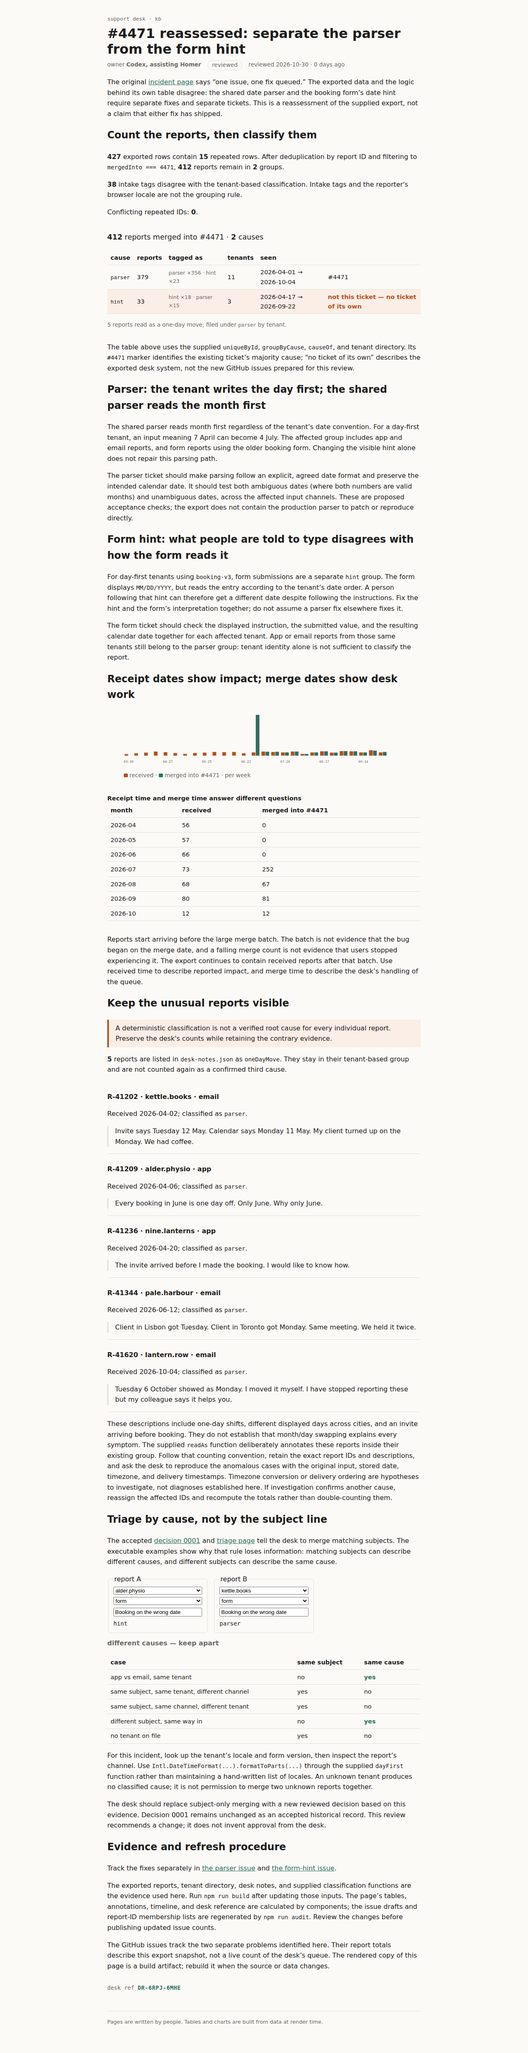
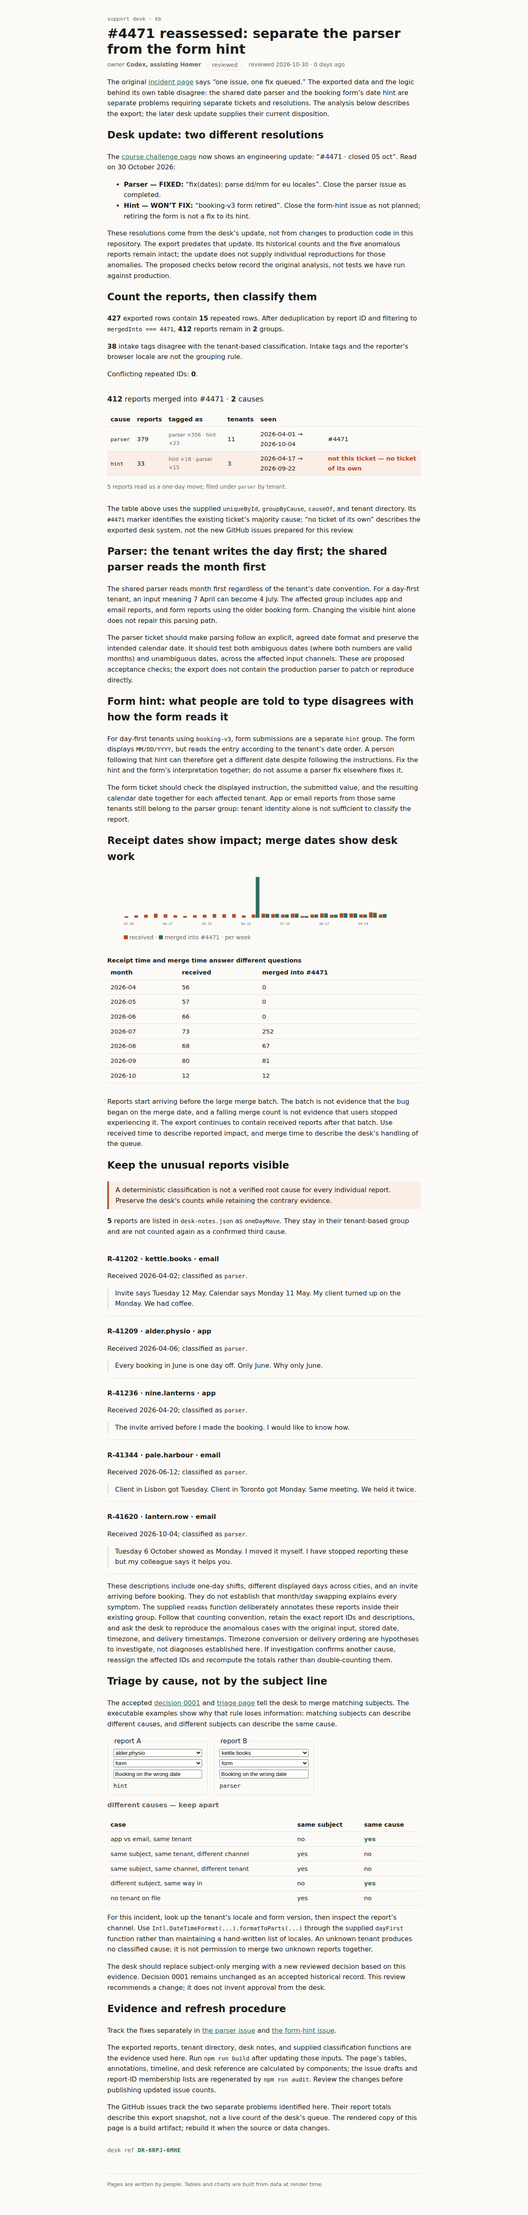
Apply desk update: parser fixed, booking-v3 hint retired

Changed region(s): [[0.1875, 0.0, 0.7812, 0.9978]]

diff --git a/rendered/_app/immutable/chunks/BATBMqL0.js b/rendered/_app/immutable/chunks/BATBMqL0.js
@@ -3,8 +3,12 @@ import{t as e}from"./DK3Fl9T5.js";import{E as t,G as n,I as r,J as i,L as a,O as
     Intake tags and the reporter's browser locale are not the grouping rule.</p> <p>Conflicting repeated IDs: <strong> </strong>.</p>`,1),V=t(`<tr><td> </td><td> </td><td> </td></tr>`),H=t(`<table><caption class="svelte-d54a26">Receipt time and merge time answer different questions</caption><thead><tr><th>month</th><th>received</th><th>merged into #4471</th></tr></thead><tbody></tbody></table>`),U=t(`<article class="svelte-d54a26"><h3 class="svelte-d54a26"> </h3> <p> <code> </code>.</p> <blockquote class="svelte-d54a26"> </blockquote></article>`),W=t(`<p><strong> </strong> reports are listed in <code>desk-notes.json</code> as <code>oneDayMove</code>.
     They stay in their tenant-based group and are not counted again as a confirmed third cause.</p> <!>`,1);function G(e,t){n(t,!0);let o=Object.values([j,N,te,ee,L,A,O,F,M,E,k]),d=z(S,o,w.oneDayMove);var _=u(),v=a(_),x=e=>{var t=B(),n=a(t),o=r(n),u=c(o,!0),f=b(o,2),p=c(f,!0),m=b(f,4),h=c(m,!0),_=b(m,2),v=c(_,!0);g(),i(n);var x=b(n,2),S=r(x),C=c(S,!0);g(),i(x);var w=b(x,2),T=b(r(w)),E=c(T,!0);g(),i(w),s(()=>{l(u,d.rawRows),l(p,d.duplicateRows),l(h,d.reports.length),l(v,d.groups.length),l(C,d.intakeDisagreements),l(E,d.conflictingDuplicateIds.length)}),y(e,t)},C=e=>{var t=H(),n=b(r(t),2);m(n,21,()=>d.months,e=>e.month,(e,t)=>{var n=V(),a=r(n),o=c(a,!0),u=b(a),d=c(u,!0),f=b(u),p=c(f,!0);i(n),s(()=>{l(o,h(t).month),l(d,h(t).received),l(p,h(t).merged)}),y(e,n)}),i(n),i(t),y(e,t)},T=e=>{var t=W(),n=a(t),o=r(n),u=c(o,!0);g(5),i(n);var f=b(n,2);m(f,17,()=>d.annotated,e=>e.id,(e,t)=>{var n=U(),a=r(n),o=c(a),u=b(a,2),d=r(u),f=b(d),p=c(f,!0);g(),i(u);var m=b(u,2),_=c(m,!0);i(n),s((e,n)=>{l(o,`${h(t).id??``} · ${h(t).tenant??``} · ${h(t).channel??``}`),l(d,`Received ${e??``}; classified as `),l(p,n),l(_,h(t).body)},[()=>h(t).receivedAt.slice(0,10),()=>re(h(t),P(h(t)))]),y(e,n)}),s(()=>l(u,d.annotated.length)),y(e,t)};p(v,e=>{t.section===`counts`?e(x):t.section===`timeline`?e(C,1):e(T,-1)}),y(e,_),f()}var K=`0123456789ABCDEFGHJKMNPQRSTVWXYZ`;function q(e,t){let n=t>>>0;for(let t=0;t<e.length;t++)n^=e.charCodeAt(t),n=Math.imul(n,16777619)>>>0;return n}function J(e){let t=e.trim(),n=q(t,2166136261),r=q(t,2654435769),i=BigInt(n)<<8n|BigInt(r&255),a=``;for(let e=0;e<8;e++)a=K[Number(i&31n)]+a,i>>=5n;return`DR-${a.slice(0,4)}-${a.slice(4)}`}var Y=t(`<p class="stamp svelte-1280m42">desk ref <b class="svelte-1280m42"> </b></p>`),X=t(`<p class="stamp missing svelte-1280m42">no desk ref: this page isn't signed (no <code>signature</code> in its frontmatter)</p>`);function ie(e,t){n(t,!0);let o=d(()=>t.signature?J(t.signature):null);var m=u(),g=a(m),_=e=>{var t=Y(),n=b(r(t)),a=c(n,!0);i(t),s(()=>l(a,h(o))),y(e,t)},v=e=>{var t=X();y(e,t)};p(g,e=>{h(o)?e(_):e(v,-1)}),y(e,m),f()}var Z=e({default:()=>$,metadata:()=>Q}),Q={layout:`runbook`,title:`#4471 reassessed: separate the parser from the form hint`,owner:`Codex, assisting Homer`,status:`reviewed`,reviewed:`2026-10-30`,signature:`Codex for Homer (1760272981), S01E03, 2026-10-30`},{layout:ae,title:oe,owner:se,status:ce,reviewed:le,signature:ue}=Q,de=t(`<p>The original <a href="/kb/incidents/4471/">incident page</a> says “one issue, one fix queued.”
 The exported data and the logic behind its own table disagree: the shared date parser and
-the booking form’s date hint require separate fixes and separate tickets.
-This is a reassessment of the supplied export, not a claim that either fix has shipped.</p> <h2>Count the reports, then classify them</h2> <!> <div class="table-scroll svelte-w4rwz6"><!></div> <p>The table above uses the supplied <code>uniqueById</code>, <code>groupByCause</code>, <code>causeOf</code>, and tenant directory.
+the booking form’s date hint are separate problems requiring separate tickets and resolutions.
+The analysis below describes the export; the later desk update supplies their current disposition.</p> <h2>Desk update: two different resolutions</h2> <p>The <a href="https://hq.mega.dev/challenges/what-it-shows#engineering-update" rel="nofollow">course challenge page</a> now shows an engineering update: “#4471 · closed 05 oct”. Read on 30 October 2026:</p> <ul><li><strong>Parser — FIXED:</strong> “fix(dates): parse dd/mm for eu locales”. Close the parser issue as completed.</li> <li><strong>Hint — WON’T FIX:</strong> “booking-v3 form retired”. Close the form-hint issue as not planned;
+retiring the form is not a fix to its hint.</li></ul> <p>These resolutions come from the desk’s update, not from changes to production code in this repository.
+The export predates that update. Its historical counts and the five anomalous reports remain intact;
+the update does not supply individual reproductions for those anomalies. The proposed checks below
+record the original analysis, not tests we have run against production.</p> <h2>Count the reports, then classify them</h2> <!> <div class="table-scroll svelte-w4rwz6"><!></div> <p>The table above uses the supplied <code>uniqueById</code>, <code>groupByCause</code>, <code>causeOf</code>, and tenant directory.
 Its <code>#4471</code> marker identifies the existing ticket’s majority cause; “no ticket of its own”
 describes the exported desk system, not the new GitHub issues prepared for this review.</p> <h2>Parser: the tenant writes the day first; the shared parser reads the month first</h2> <p>The shared parser reads month first regardless of the tenant’s date convention.
 For a day-first tenant, an input meaning 7 April can become 4 July.
@@ -39,5 +43,5 @@ evidence used here. Run <code>npm run build</code> after updating those inputs. 
 timeline, and desk reference are calculated by components; the issue drafts and report-ID membership
 lists are regenerated by <code>npm run audit</code>. Review the changes before publishing updated issue counts.</p> <p>The GitHub issues track the two separate problems identified here. Their report totals describe this
 export snapshot, not a live count of the desk’s queue. The rendered copy of this page is a build artifact;
-rebuild it when the source or data changes.</p> <!>`,1);function $(e,t){let n=v(t,[`children`,`$$slots`,`$$events`,`$$legacy`]);x(e,_(()=>n,()=>Q,{children:(e,t)=>{var n=de(),s=b(a(n),4);G(s,{section:`counts`});var c=b(s,2),l=r(c);C(l,{ticket:4471}),i(c);var u=b(c,18);T(u,{ticket:4471});var d=b(u,2);G(r(d),{section:`timeline`}),i(d);var f=b(d,6);I(f,{kind:`warn`,children:(e,t)=>{g();var n=o(`A deterministic classification is not a verified root cause for every individual report.
+rebuild it when the source or data changes.</p> <!>`,1);function $(e,t){let n=v(t,[`children`,`$$slots`,`$$events`,`$$legacy`]);x(e,_(()=>n,()=>Q,{children:(e,t)=>{var n=de(),s=b(a(n),12);G(s,{section:`counts`});var c=b(s,2),l=r(c);C(l,{ticket:4471}),i(c);var u=b(c,18);T(u,{ticket:4471});var d=b(u,2);G(r(d),{section:`timeline`}),i(d);var f=b(d,6);I(f,{kind:`warn`,children:(e,t)=>{g();var n=o(`A deterministic classification is not a verified root cause for every individual report.
   Preserve the desk's counts while retaining the contrary evidence.`);y(e,n)},$$slots:{default:!0}});var p=b(f,2);G(p,{section:`exceptions`});var m=b(p,8);R(m,{}),ie(b(m,14),{get signature(){return ue}}),y(e,n)},$$slots:{default:!0}}))}export{$ as n,Z as t};

diff --git a/rendered/kb/incidents/4471-review/index.html b/rendered/kb/incidents/4471-review/index.html
@@ -9,11 +9,11 @@
 		<link href="../../../_app/immutable/chunks/Cq01Gh6Q.js" rel="modulepreload">
 		<link href="../../../_app/immutable/chunks/2D1cxmbv.js" rel="modulepreload">
 		<link href="../../../_app/immutable/chunks/CQJJEalF.js" rel="modulepreload">
-		<link href="../../../_app/immutable/entry/app.DoGClsZR.js" rel="modulepreload">
+		<link href="../../../_app/immutable/entry/app.BzIb4Rom.js" rel="modulepreload">
 		<link href="../../../_app/immutable/nodes/0.Bxxzqp7H.js" rel="modulepreload">
 		<link href="../../../_app/immutable/chunks/DK3Fl9T5.js" rel="modulepreload">
-		<link href="../../../_app/immutable/nodes/6.M_Tiq3f0.js" rel="modulepreload">
-		<link href="../../../_app/immutable/chunks/BtgBJb5W.js" rel="modulepreload">
+		<link href="../../../_app/immutable/nodes/6.CsdWFHEe.js" rel="modulepreload">
+		<link href="../../../_app/immutable/chunks/BATBMqL0.js" rel="modulepreload">
 		<link href="../../../_app/immutable/chunks/CnzFfRdU.js" rel="modulepreload">
 		<link href="../../../_app/immutable/chunks/Dh63krjs.js" rel="modulepreload">
 		<link href="../../../_app/immutable/chunks/DrPThg5V.js" rel="modulepreload">
@@ -28,8 +28,12 @@
   </head>
   <body data-sveltekit-preload-data="hover"><div style="display: contents"><!--[--><!--[--><!--[0--><!--[--><!--[--><!--[-1--><!--[--><div class="kb svelte-e2jw2j"><header><a class="crumb svelte-e2jw2j" href="/kb">support desk · kb</a> <h1 class="svelte-e2jw2j">#4471 reassessed: separate the parser from the form hint</h1> <p class="meta svelte-e2jw2j"><span>owner <b>Codex, assisting Homer</b></span> <span class="status reviewed svelte-e2jw2j">reviewed</span> <span class="svelte-e2jw2j">reviewed 2026-10-30 · 0 days ago</span></p></header> <!--[-1--><!--]--> <main><p>The original <a href="/kb/incidents/4471/">incident page</a> says “one issue, one fix queued.”
 The exported data and the logic behind its own table disagree: the shared date parser and
-the booking form’s date hint require separate fixes and separate tickets.
-This is a reassessment of the supplied export, not a claim that either fix has shipped.</p> <h2>Count the reports, then classify them</h2> <!--[0--><p><strong>427</strong> exported rows contain <strong>15</strong> repeated rows.
+the booking form’s date hint are separate problems requiring separate tickets and resolutions.
+The analysis below describes the export; the later desk update supplies their current disposition.</p> <h2>Desk update: two different resolutions</h2> <p>The <a href="https://hq.mega.dev/challenges/what-it-shows#engineering-update" rel="nofollow">course challenge page</a> now shows an engineering update: “#4471 · closed 05 oct”. Read on 30 October 2026:</p> <ul><li><strong>Parser — FIXED:</strong> “fix(dates): parse dd/mm for eu locales”. Close the parser issue as completed.</li> <li><strong>Hint — WON’T FIX:</strong> “booking-v3 form retired”. Close the form-hint issue as not planned;
+retiring the form is not a fix to its hint.</li></ul> <p>These resolutions come from the desk’s update, not from changes to production code in this repository.
+The export predates that update. Its historical counts and the five anomalous reports remain intact;
+the update does not supply individual reproductions for those anomalies. The proposed checks below
+record the original analysis, not tests we have run against production.</p> <h2>Count the reports, then classify them</h2> <!--[0--><p><strong>427</strong> exported rows contain <strong>15</strong> repeated rows.
     After deduplication by report ID and filtering to <code>mergedInto === 4471</code>, <strong>412</strong> reports remain in <strong>2</strong> groups.</p> <p><strong>38</strong> intake tags disagree with the tenant-based classification.
     Intake tags and the reporter's browser locale are not the grouping rule.</p> <p>Conflicting repeated IDs: <strong>0</strong>.</p><!--]--><!----> <div class="table-scroll svelte-w4rwz6"><p class="sum svelte-12oyimm"><strong>412</strong> reports merged into #4471 · <strong>2</strong> causes</p> <table><thead><tr><th>cause</th><th>reports</th><th>tagged as</th><th>tenants</th><th>seen</th><th></th></tr></thead><tbody><!--[--><tr class="svelte-12oyimm"><td class="svelte-12oyimm"><code>parser</code></td><td class="svelte-12oyimm">379</td><td class="tags svelte-12oyimm">parser ×356 · hint ×23</td><td class="svelte-12oyimm">11</td><td class="svelte-12oyimm">2026-04-01 → 2026-10-04</td><td class="svelte-12oyimm">#4471</td></tr><tr class="svelte-12oyimm wrong"><td class="svelte-12oyimm"><code>hint</code></td><td class="svelte-12oyimm">33</td><td class="tags svelte-12oyimm">hint ×18 · parser ×15</td><td class="svelte-12oyimm">3</td><td class="svelte-12oyimm">2026-04-17 → 2026-09-22</td><td class="svelte-12oyimm">not this ticket — no ticket of its own</td></tr><!--]--></tbody></table> <!--[--><!--[0--><p class="note svelte-12oyimm">5 reports read as a one-day move; filed under <code>parser</code> by tenant.</p><!--]--><!--[-1--><!--]--><!--]--><!----></div> <p>The table above uses the supplied <code>uniqueById</code>, <code>groupByCause</code>, <code>causeOf</code>, and tenant directory.
 Its <code>#4471</code> marker identifies the existing ticket’s majority cause; “no ticket of its own”
@@ -72,16 +76,16 @@ rebuild it when the source or data changes.</p> <!--[0--><p class="stamp svelte-
 			
 			<script>
 				{
-					__sveltekit_rd9f4u = {
+					__sveltekit_uleuag = {
 						base: new URL("../../..", location).pathname.slice(0, -1),
-						version: "1793364668781"
+						version: "1793367202461"
 					};
 
 					const element = document.currentScript.parentElement;
 
 					import("../../../_app/immutable/entry/start.DUYmlmhK.js").then(async (kit) => {
-						kit.init(__sveltekit_rd9f4u);
-						const app = await import("../../../_app/immutable/entry/app.DoGClsZR.js");
+						kit.init(__sveltekit_uleuag);
+						const app = await import("../../../_app/immutable/entry/app.BzIb4Rom.js");
 						kit.start(app, element, {
 							node_ids: [0, 6],
 							data: [null,null],

diff --git a/rendered/_app/immutable/entry/app.BzIb4Rom.js b/rendered/_app/immutable/entry/app.BzIb4Rom.js
@@ -1,0 +1,2 @@
+const __vite__mapDeps=(i,m=__vite__mapDeps,d=(m.f||(m.f=["../nodes/0.Bxxzqp7H.js","../chunks/DK3Fl9T5.js","../chunks/2D1cxmbv.js","../nodes/1.C3VbMopq.js","../chunks/CQJJEalF.js","./payload.DSmR2FwN.js","../nodes/2.BHHbg1nX.js","../chunks/CnzFfRdU.js","../nodes/3.DRbAsFVg.js","../chunks/Dh63krjs.js","../assets/runbook.COyw0cbZ.css","../chunks/CwpsZ9va.js","../chunks/I6jV0-eq.js","../chunks/DrPThg5V.js","../chunks/Bd3kRNKH.js","../assets/Callout.AbLv9dM_.css","../assets/QueueTimeline.D56XP2ro.css","../chunks/BATBMqL0.js","../chunks/Cvxc71Pu.js","../assets/DedupeExplorer.DO6Yid7X.css","../assets/_page.C5JhMVEf.css","../chunks/BlJGLigd.js","../assets/3.Bt0MwIZg.css","../nodes/4.BxLB6XrB.js","../nodes/5.pVXjYX-T.js","../nodes/6.CsdWFHEe.js","../nodes/7.D9pEYvxg.js"])))=>i.map(i=>d[i]);
+import{t as e}from"../chunks/CRzLMJPS.js";var t={},n=[()=>e(()=>import(`../nodes/0.Bxxzqp7H.js`),__vite__mapDeps([0,1,2]),import.meta.url),()=>e(()=>import(`../nodes/1.C3VbMopq.js`),__vite__mapDeps([3,2,4,5]),import.meta.url),()=>e(()=>import(`../nodes/2.BHHbg1nX.js`),__vite__mapDeps([6,2,7]),import.meta.url),()=>e(()=>import(`../nodes/3.DRbAsFVg.js`),__vite__mapDeps([8,2,7,9,10,11,1,12,13,14,15,16,17,18,19,20,21,22]),import.meta.url),()=>e(()=>import(`../nodes/4.BxLB6XrB.js`),__vite__mapDeps([23,11,1,2,7,9,10]),import.meta.url),()=>e(()=>import(`../nodes/5.pVXjYX-T.js`),__vite__mapDeps([24,12,1,2,7,9,10,13,14,15,16]),import.meta.url),()=>e(()=>import(`../nodes/6.CsdWFHEe.js`),__vite__mapDeps([25,17,1,2,7,9,10,13,14,15,16,18,19,20]),import.meta.url),()=>e(()=>import(`../nodes/7.D9pEYvxg.js`),__vite__mapDeps([26,21,1,2,7,9,10,18,14,15,19]),import.meta.url)],r=[],i={"/":[2],"/kb":[3],"/kb/decisions/0001-dedupe-by-subject":[4],"/kb/incidents/4471-review":[6],"/kb/incidents/4471":[5],"/kb/triage/dedupe":[7]},a={handleError:(({kind:e,error:t})=>{e===`unknown`&&console.error(t)}),reroute:(()=>{}),transport:{}},o=Object.fromEntries(Object.entries(a.transport).map(([e,t])=>[e,t.decode])),s=Object.fromEntries(Object.entries(a.transport).map(([e,t])=>[e,t.encode])),c=!1,l=(e,t)=>o[e](t),u=()=>e(()=>import(`../chunks/Bjy-W4x2.js`).then(e=>e.default),[],import.meta.url);export{l as decode,o as decoders,i as dictionary,s as encoders,u as get_error_template,c as hash,a as hooks,t as matchers,n as nodes,r as server_loads};

diff --git a/rendered/_app/immutable/nodes/3.DRbAsFVg.js b/rendered/_app/immutable/nodes/3.DRbAsFVg.js
@@ -1,0 +1,2 @@
+import{E as e,G as t,I as n,J as r,L as i,P as a,R as o,S as s,W as c,c as l,d as u,h as d,i as f,k as p,q as m,r as h,t as g,w as _,z as v}from"../chunks/2D1cxmbv.js";import"../chunks/CnzFfRdU.js";import{n as y,r as b,t as x}from"../chunks/Dh63krjs.js";import{t as S}from"../chunks/CwpsZ9va.js";import{t as C}from"../chunks/I6jV0-eq.js";import{t as w}from"../chunks/BATBMqL0.js";import{t as T}from"../chunks/BlJGLigd.js";var E=e(`<tr><td><a> </a></td><td> </td><td> </td><td> </td></tr>`),D=e(`<table><thead><tr><th>page</th><th>owner</th><th>status</th><th>reviewed</th></tr></thead><tbody></tbody></table>`);function O(e,i){t(i,!1);let m=Object.entries(Object.assign({"/src/routes/kb/decisions/0001-dedupe-by-subject/+page.svx":S,"/src/routes/kb/incidents/4471/+page.svx":C,"/src/routes/kb/incidents/4471-review/+page.svx":w,"/src/routes/kb/triage/dedupe/+page.svx":T})).map(([e,t])=>({href:e.replace(`/src/routes`,``).replace(`/+page.svx`,``),...t.metadata})).sort((e,t)=>e.href.localeCompare(t.href));f();var h=D(),g=v(n(h));d(g,5,()=>m,e=>e.href,(e,t)=>{var i=E(),c=n(i),d=n(c),f=o(d,!0);r(c);var m=v(c),h=o(m,!0),g=v(m),x=o(g,!0),S=v(g);let C;var w=o(S,!0);r(i),a((e,n)=>{l(d,`href`,p(t).href),s(f,p(t).title),s(h,p(t).owner),s(x,p(t).status),C=u(S,1,`svelte-tbc1ha`,null,C,{stale:e}),s(w,n)},[()=>y(p(t).reviewed)>180,()=>b(p(t).reviewed)]),_(e,i)}),r(g),r(h),_(e,h),c()}var k={layout:`runbook`,title:`Support knowledge base`,owner:`support desk`,status:`living`,reviewed:`2026-09-28T00:00:00.000Z`},{layout:A,title:j,owner:M,status:N,reviewed:P}=k,F=e(`<p>What the support desk knows, kept next to the code that knows it. One desk, every product: <code>sched-prod</code> (calendar invites for about 300k people) and the rest. When something breaks, the reports land here first.</p> <p>Start with <a href="/kb/triage/dedupe">triage</a> if you are new on the desk.</p> <h2>Pages</h2> <!> <h2>Writing a page</h2> <p>Keep the words here and the logic in <code>src/lib</code>. A number that can be computed should be
+computed by a component, not typed into a paragraph.</p>`,1);function I(e,t){let n=g(t,[`children`,`$$slots`,`$$events`,`$$legacy`]);x(e,h(()=>n,()=>k,{children:(e,t)=>{var n=F();O(v(i(n),6),{}),m(4),_(e,n)},$$slots:{default:!0}}))}export{I as component};

diff --git a/rendered/kb/index.html b/rendered/kb/index.html
@@ -9,17 +9,17 @@
 		<link href="../_app/immutable/chunks/Cq01Gh6Q.js" rel="modulepreload">
 		<link href="../_app/immutable/chunks/2D1cxmbv.js" rel="modulepreload">
 		<link href="../_app/immutable/chunks/CQJJEalF.js" rel="modulepreload">
-		<link href="../_app/immutable/entry/app.DoGClsZR.js" rel="modulepreload">
+		<link href="../_app/immutable/entry/app.BzIb4Rom.js" rel="modulepreload">
 		<link href="../_app/immutable/nodes/0.Bxxzqp7H.js" rel="modulepreload">
 		<link href="../_app/immutable/chunks/DK3Fl9T5.js" rel="modulepreload">
-		<link href="../_app/immutable/nodes/3.BJFyYP9g.js" rel="modulepreload">
+		<link href="../_app/immutable/nodes/3.DRbAsFVg.js" rel="modulepreload">
 		<link href="../_app/immutable/chunks/CnzFfRdU.js" rel="modulepreload">
 		<link href="../_app/immutable/chunks/Dh63krjs.js" rel="modulepreload">
 		<link href="../_app/immutable/chunks/CwpsZ9va.js" rel="modulepreload">
 		<link href="../_app/immutable/chunks/I6jV0-eq.js" rel="modulepreload">
 		<link href="../_app/immutable/chunks/DrPThg5V.js" rel="modulepreload">
 		<link href="../_app/immutable/chunks/Bd3kRNKH.js" rel="modulepreload">
-		<link href="../_app/immutable/chunks/BtgBJb5W.js" rel="modulepreload">
+		<link href="../_app/immutable/chunks/BATBMqL0.js" rel="modulepreload">
 		<link href="../_app/immutable/chunks/Cvxc71Pu.js" rel="modulepreload">
 		<link href="../_app/immutable/chunks/BlJGLigd.js" rel="modulepreload">
 		<!--e2jw2j--><!----><title>Support knowledge base · support kb</title>
@@ -35,16 +35,16 @@ computed by a component, not typed into a paragraph.</p><!----></main> <footer c
 			
 			<script>
 				{
-					__sveltekit_rd9f4u = {
+					__sveltekit_uleuag = {
 						base: new URL("..", location).pathname.slice(0, -1),
-						version: "1793364668781"
+						version: "1793367202461"
 					};
 
 					const element = document.currentScript.parentElement;
 
 					import("../_app/immutable/entry/start.DUYmlmhK.js").then(async (kit) => {
-						kit.init(__sveltekit_rd9f4u);
-						const app = await import("../_app/immutable/entry/app.DoGClsZR.js");
+						kit.init(__sveltekit_uleuag);
+						const app = await import("../_app/immutable/entry/app.BzIb4Rom.js");
 						kit.start(app, element, {
 							node_ids: [0, 3],
 							data: [null,null],

diff --git a/rendered/kb/decisions/0001-dedupe-by-subject/index.html b/rendered/kb/decisions/0001-dedupe-by-subject/index.html
@@ -9,7 +9,7 @@
 		<link href="../../../_app/immutable/chunks/Cq01Gh6Q.js" rel="modulepreload">
 		<link href="../../../_app/immutable/chunks/2D1cxmbv.js" rel="modulepreload">
 		<link href="../../../_app/immutable/chunks/CQJJEalF.js" rel="modulepreload">
-		<link href="../../../_app/immutable/entry/app.DoGClsZR.js" rel="modulepreload">
+		<link href="../../../_app/immutable/entry/app.BzIb4Rom.js" rel="modulepreload">
 		<link href="../../../_app/immutable/nodes/0.Bxxzqp7H.js" rel="modulepreload">
 		<link href="../../../_app/immutable/chunks/DK3Fl9T5.js" rel="modulepreload">
 		<link href="../../../_app/immutable/nodes/4.BxLB6XrB.js" rel="modulepreload">
@@ -26,16 +26,16 @@ engineering merges them later.</li></ul><!----></main> <footer class="svelte-e2j
 			
 			<script>
 				{
-					__sveltekit_rd9f4u = {
+					__sveltekit_uleuag = {
 						base: new URL("../../..", location).pathname.slice(0, -1),
-						version: "1793364668781"
+						version: "1793367202461"
 					};
 
 					const element = document.currentScript.parentElement;
 
 					import("../../../_app/immutable/entry/start.DUYmlmhK.js").then(async (kit) => {
-						kit.init(__sveltekit_rd9f4u);
-						const app = await import("../../../_app/immutable/entry/app.DoGClsZR.js");
+						kit.init(__sveltekit_uleuag);
+						const app = await import("../../../_app/immutable/entry/app.BzIb4Rom.js");
 						kit.start(app, element, {
 							node_ids: [0, 4],
 							data: [null,null],

diff --git a/rendered/kb/incidents/4471/index.html b/rendered/kb/incidents/4471/index.html
@@ -9,7 +9,7 @@
 		<link href="../../../_app/immutable/chunks/Cq01Gh6Q.js" rel="modulepreload">
 		<link href="../../../_app/immutable/chunks/2D1cxmbv.js" rel="modulepreload">
 		<link href="../../../_app/immutable/chunks/CQJJEalF.js" rel="modulepreload">
-		<link href="../../../_app/immutable/entry/app.DoGClsZR.js" rel="modulepreload">
+		<link href="../../../_app/immutable/entry/app.BzIb4Rom.js" rel="modulepreload">
 		<link href="../../../_app/immutable/nodes/0.Bxxzqp7H.js" rel="modulepreload">
 		<link href="../../../_app/immutable/chunks/DK3Fl9T5.js" rel="modulepreload">
 		<link href="../../../_app/immutable/nodes/5.pVXjYX-T.js" rel="modulepreload">
@@ -29,16 +29,16 @@ first. The fix is queued.</p> <aside class="note svelte-17bri61"><!---->Known. O
 			
 			<script>
 				{
-					__sveltekit_rd9f4u = {
+					__sveltekit_uleuag = {
 						base: new URL("../../..", location).pathname.slice(0, -1),
-						version: "1793364668781"
+						version: "1793367202461"
 					};
 
 					const element = document.currentScript.parentElement;
 
 					import("../../../_app/immutable/entry/start.DUYmlmhK.js").then(async (kit) => {
-						kit.init(__sveltekit_rd9f4u);
-						const app = await import("../../../_app/immutable/entry/app.DoGClsZR.js");
+						kit.init(__sveltekit_uleuag);
+						const app = await import("../../../_app/immutable/entry/app.BzIb4Rom.js");
 						kit.start(app, element, {
 							node_ids: [0, 5],
 							data: [null,null],

diff --git a/rendered/kb/triage/dedupe/index.html b/rendered/kb/triage/dedupe/index.html
@@ -9,7 +9,7 @@
 		<link href="../../../_app/immutable/chunks/Cq01Gh6Q.js" rel="modulepreload">
 		<link href="../../../_app/immutable/chunks/2D1cxmbv.js" rel="modulepreload">
 		<link href="../../../_app/immutable/chunks/CQJJEalF.js" rel="modulepreload">
-		<link href="../../../_app/immutable/entry/app.DoGClsZR.js" rel="modulepreload">
+		<link href="../../../_app/immutable/entry/app.BzIb4Rom.js" rel="modulepreload">
 		<link href="../../../_app/immutable/nodes/0.Bxxzqp7H.js" rel="modulepreload">
 		<link href="../../../_app/immutable/chunks/DK3Fl9T5.js" rel="modulepreload">
 		<link href="../../../_app/immutable/nodes/7.D9pEYvxg.js" rel="modulepreload">
@@ -30,16 +30,16 @@ anything else.<!----></aside><!----> <h2>Try it</h2> <div class="try svelte-gq0h
 			
 			<script>
 				{
-					__sveltekit_rd9f4u = {
+					__sveltekit_uleuag = {
 						base: new URL("../../..", location).pathname.slice(0, -1),
-						version: "1793364668781"
+						version: "1793367202461"
 					};
 
 					const element = document.currentScript.parentElement;
 
 					import("../../../_app/immutable/entry/start.DUYmlmhK.js").then(async (kit) => {
-						kit.init(__sveltekit_rd9f4u);
-						const app = await import("../../../_app/immutable/entry/app.DoGClsZR.js");
+						kit.init(__sveltekit_uleuag);
+						const app = await import("../../../_app/immutable/entry/app.BzIb4Rom.js");
 						kit.start(app, element, {
 							node_ids: [0, 7],
 							data: [null,null],

diff --git a/rendered/index.html b/rendered/index.html
@@ -9,7 +9,7 @@
 		<link href="./_app/immutable/chunks/Cq01Gh6Q.js" rel="modulepreload">
 		<link href="./_app/immutable/chunks/2D1cxmbv.js" rel="modulepreload">
 		<link href="./_app/immutable/chunks/CQJJEalF.js" rel="modulepreload">
-		<link href="./_app/immutable/entry/app.DoGClsZR.js" rel="modulepreload">
+		<link href="./_app/immutable/entry/app.BzIb4Rom.js" rel="modulepreload">
 		<link href="./_app/immutable/nodes/0.Bxxzqp7H.js" rel="modulepreload">
 		<link href="./_app/immutable/chunks/DK3Fl9T5.js" rel="modulepreload">
 		<link href="./_app/immutable/nodes/2.BHHbg1nX.js" rel="modulepreload">
@@ -20,16 +20,16 @@
 			
 			<script>
 				{
-					__sveltekit_rd9f4u = {
+					__sveltekit_uleuag = {
 						base: new URL(".", location).pathname.slice(0, -1),
-						version: "1793364668781"
+						version: "1793367202461"
 					};
 
 					const element = document.currentScript.parentElement;
 
 					import("./_app/immutable/entry/start.DUYmlmhK.js").then(async (kit) => {
-						kit.init(__sveltekit_rd9f4u);
-						const app = await import("./_app/immutable/entry/app.DoGClsZR.js");
+						kit.init(__sveltekit_uleuag);
+						const app = await import("./_app/immutable/entry/app.BzIb4Rom.js");
 						kit.start(app, element, {
 							node_ids: [0, 2],
 							data: [null,null],

diff --git a/rendered/_app/immutable/nodes/6.CsdWFHEe.js b/rendered/_app/immutable/nodes/6.CsdWFHEe.js
@@ -1,0 +1,1 @@
+export{n as component}from"../chunks/BATBMqL0.js";

diff --git a/issue-drafts/parser.md b/issue-drafts/parser.md
@@ -42,10 +42,10 @@ This diagnosis follows the supplied knowledge-base logic and report data. The pr
 
 R-41200, R-41201, R-41202, R-41203, R-41204, R-41205, R-41206, R-41208, R-41209, R-41210, R-41211, R-41212, R-41213, R-41214, R-41215, R-41216, R-41217, R-41218, R-41219, R-41220, R-41221, R-41222, R-41223, R-41224, R-41225, R-41227, R-41228, R-41229, R-41231, R-41232, R-41233, R-41234, R-41235, R-41236, R-41237, R-41238, R-41239, R-41240, R-41242, R-41243, R-41244, R-41245, R-41246, R-41247, R-41248, R-41249, R-41250, R-41252, R-41253, R-41254, R-41255, R-41256, R-41257, R-41258, R-41260, R-41261, R-41263, R-41264, R-41265, R-41266, R-41267, R-41268, R-41269, R-41270, R-41271, R-41272, R-41273, R-41274, R-41276, R-41277, R-41278, R-41279, R-41280, R-41281, R-41282, R-41283, R-41284, R-41285, R-41286, R-41287, R-41288, R-41289, R-41290, R-41291, R-41292, R-41293, R-41295, R-41296, R-41297, R-41298, R-41299, R-41300, R-41301, R-41302, R-41303, R-41304, R-41306, R-41309, R-41310, R-41311, R-41312, R-41313, R-41314, R-41315, R-41316, R-41317, R-41318, R-41319, R-41320, R-41321, R-41322, R-41323, R-41324, R-41325, R-41327, R-41328, R-41329, R-41330, R-41331, R-41332, R-41333, R-41334, R-41335, R-41336, R-41337, R-41338, R-41339, R-41340, R-41341, R-41342, R-41343, R-41344, R-41345, R-41346, R-41347, R-41348, R-41349, R-41350, R-41351, R-41352, R-41353, R-41354, R-41355, R-41356, R-41357, R-41358, R-41359, R-41360, R-41361, R-41362, R-41363, R-41364, R-41365, R-41367, R-41368, R-41369, R-41370, R-41371, R-41373, R-41374, R-41375, R-41376, R-41377, R-41378, R-41379, R-41380, R-41381, R-41382, R-41383, R-41385, R-41386, R-41388, R-41389, R-41390, R-41391, R-41392, R-41393, R-41394, R-41395, R-41397, R-41398, R-41399, R-41401, R-41402, R-41403, R-41404, R-41405, R-41408, R-41409, R-41410, R-41411, R-41412, R-41413, R-41414, R-41417, R-41419, R-41420, R-41421, R-41422, R-41423, R-41424, R-41425, R-41427, R-41429, R-41430, R-41431, R-41432, R-41433, R-41434, R-41435, R-41436, R-41437, R-41438, R-41440, R-41442, R-41443, R-41444, R-41445, R-41446, R-41447, R-41448, R-41450, R-41451, R-41452, R-41454, R-41455, R-41457, R-41458, R-41459, R-41461, R-41462, R-41463, R-41464, R-41465, R-41466, R-41467, R-41468, R-41469, R-41470, R-41471, R-41473, R-41474, R-41475, R-41476, R-41477, R-41478, R-41479, R-41480, R-41481, R-41482, R-41483, R-41484, R-41486, R-41487, R-41488, R-41489, R-41490, R-41491, R-41492, R-41494, R-41495, R-41496, R-41497, R-41498, R-41499, R-41500, R-41501, R-41502, R-41503, R-41504, R-41505, R-41506, R-41508, R-41509, R-41510, R-41511, R-41512, R-41513, R-41514, R-41515, R-41516, R-41517, R-41518, R-41519, R-41520, R-41521, R-41522, R-41523, R-41524, R-41525, R-41527, R-41528, R-41529, R-41530, R-41531, R-41532, R-41533, R-41534, R-41535, R-41536, R-41537, R-41538, R-41540, R-41541, R-41542, R-41543, R-41544, R-41545, R-41546, R-41547, R-41548, R-41549, R-41550, R-41551, R-41552, R-41553, R-41554, R-41555, R-41556, R-41557, R-41558, R-41559, R-41560, R-41561, R-41562, R-41563, R-41564, R-41565, R-41566, R-41567, R-41568, R-41569, R-41570, R-41571, R-41573, R-41574, R-41575, R-41576, R-41577, R-41578, R-41579, R-41580, R-41581, R-41583, R-41585, R-41586, R-41587, R-41588, R-41589, R-41590, R-41591, R-41592, R-41593, R-41594, R-41595, R-41596, R-41597, R-41598, R-41599, R-41600, R-41601, R-41602, R-41603, R-41604, R-41605, R-41606, R-41608, R-41609, R-41610, R-41611, R-41612, R-41613, R-41614, R-41615, R-41616, R-41617, R-41618, R-41619, R-41620
 
-## Course acceptance status
+## Desk resolution
 
-The course accepted the two tickets at step one. The signed .svx, rendered HTML, report-ID audit, and browser checks are published, but the complete challenge has not been accepted.
+Source: https://hq.mega.dev/challenges/what-it-shows#engineering-update (read 2026-10-30). The engineering update states: #4471 · closed 05 oct.
 
-This ticket was closed prematurely after the analysis handoff. The course rejected that closure, so it is reopened. Completing the analysis does not establish that the desk's work on #4471 is done. No production fix or executed remediation check is claimed.
+FIXED — fix(dates): parse dd/mm for eu locales. Close as completed.
 
-The course says things moved after the first submission. As of this check, the refreshed export has identical archive members, and the challenge page, issue comments, timelines, and body-edit history have not supplied the corresponding change. Closure awaits evidence of the desk's updated work and the appropriate resolution. The five annotated reports remain visible and counted once.
+This supersedes the premature analysis-only closure. Resolution is based on the desk update, not a production change or live reproduction performed in this repository. Historical report counts and annotations are unchanged.

diff --git a/issue-drafts/hint.md b/issue-drafts/hint.md
@@ -42,10 +42,10 @@ No report in this group is in the desk's oneDayMove annotation list.
 
 R-41230, R-41241, R-41251, R-41259, R-41262, R-41275, R-41294, R-41305, R-41308, R-41366, R-41372, R-41384, R-41387, R-41396, R-41400, R-41406, R-41415, R-41416, R-41418, R-41428, R-41439, R-41441, R-41449, R-41453, R-41456, R-41460, R-41472, R-41485, R-41493, R-41539, R-41572, R-41582, R-41584
 
-## Course acceptance status
+## Desk resolution
 
-The course accepted the two tickets at step one. The signed .svx, rendered HTML, report-ID audit, and browser checks are published, but the complete challenge has not been accepted.
+Source: https://hq.mega.dev/challenges/what-it-shows#engineering-update (read 2026-10-30). The engineering update states: #4471 · closed 05 oct.
 
-This ticket was closed prematurely after the analysis handoff. The course rejected that closure, so it is reopened. Completing the analysis does not establish that the desk's work on #4471 is done. No production fix or executed remediation check is claimed.
+WON'T FIX — booking-v3 form retired. Close as not planned, not as a shipped hint fix.
 
-The course says things moved after the first submission. As of this check, the refreshed export has identical archive members, and the challenge page, issue comments, timelines, and body-edit history have not supplied the corresponding change. Closure awaits evidence of the desk's updated work and the appropriate resolution. The five annotated reports remain visible and counted once.
+This supersedes the premature analysis-only closure. Resolution is based on the desk update, not a production change or live reproduction performed in this repository. Historical report counts and annotations are unchanged.
